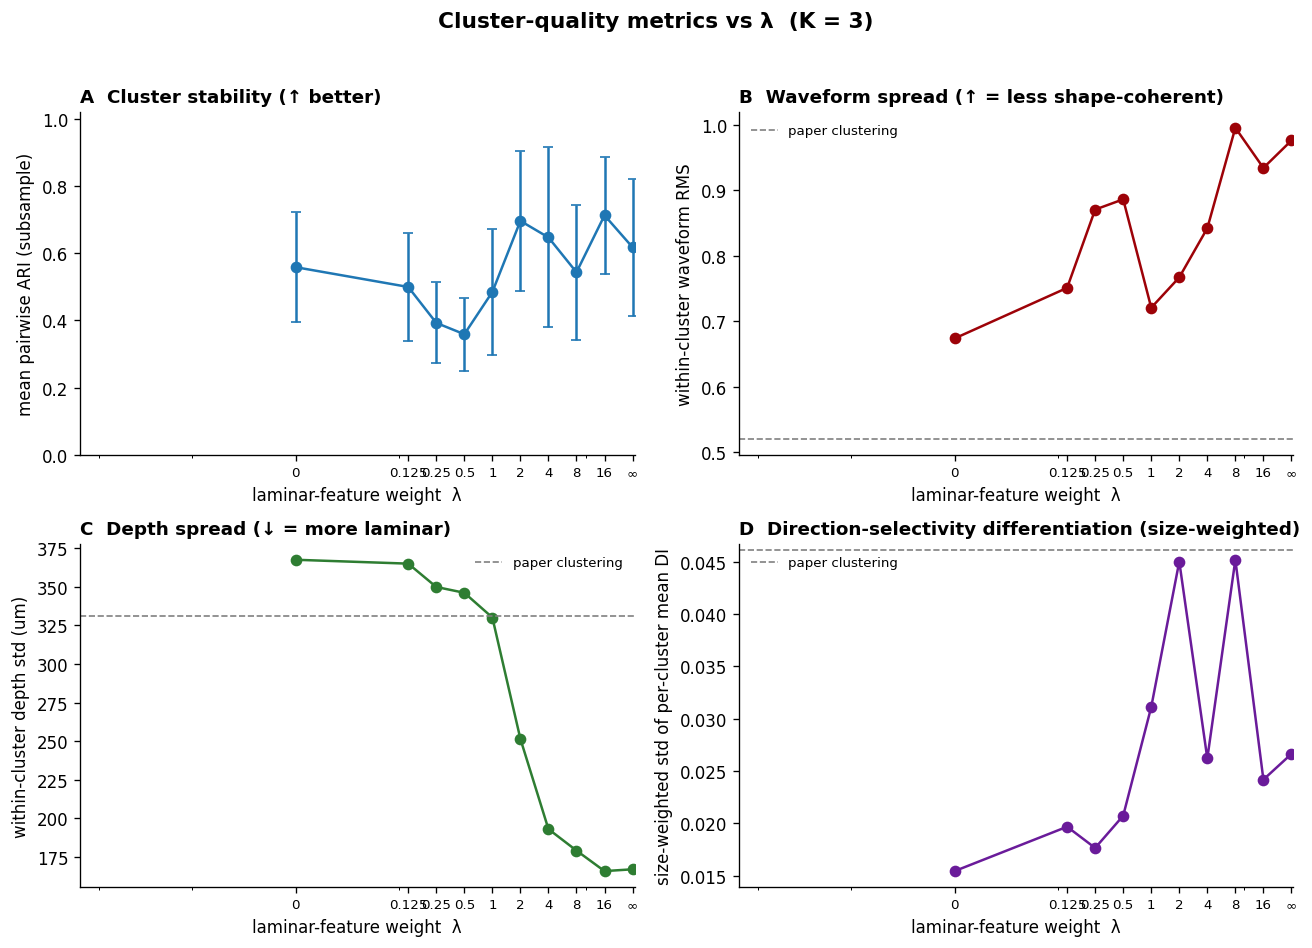
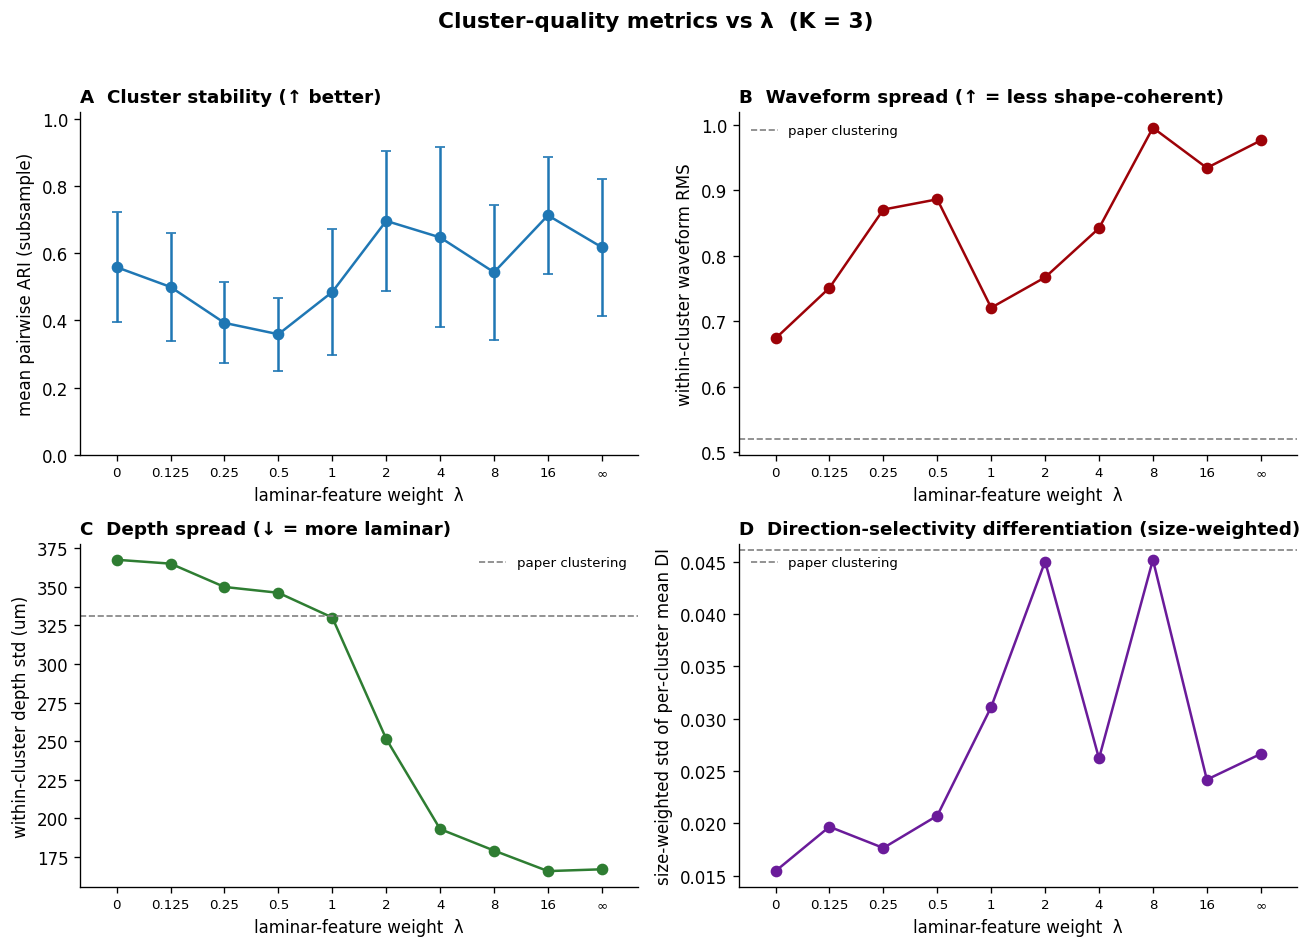
Clean up laminar_features: one seed, one lambda axis, no dead code
- Use common.RAND_STATE everywhere (drop duplicate UMAP_SEED)
- Per-K metric plots use the same log lambda-axis as the overlay;
  regenerate output/metrics_K*.png from the cached metrics
- Remove unused LAYER_EDGES, PAPER_CATEGORY, obs_pub, louvain.modularity
- Drop unused seaborn dependency
- Fix stale metrics34 docstring (subsample stability, any K)
- functional_quality.py writes output/functional_quality.json;
  write_explainer.py reads it instead of a hand-copied z table

diff --git a/laminar_features/output/functional_differentiation.html b/laminar_features/output/functional_differentiation.html
@@ -123,8 +123,8 @@ label shuffles.</div>
   per variable.</li>
   <li><b>Null:</b> B = 300 label permutations preserving cluster sizes; the same
   permutation is applied to all variables within a draw.</li>
-  <li><b>Reported:</b> the z-score above, per (K, λ); plus per-variable η² for two
-  reference solutions (shape-only K=9 vs position-only K=9).</li>
+  <li><b>Reported:</b> the z-score above, per (K, λ); plus per-variable η² for three
+  K=9 reference solutions (shape-only λ=0, the peak λ=4, position-only λ=∞).</li>
 </ul>
 
 <h2>5. How this relates to the paper</h2>
@@ -158,8 +158,8 @@ is the per-variable breakdown of the aggregate z on the left.</figcaption></figu
 
 <p>z-score by cluster count K (rows) and laminar weight λ (columns); the largest value
 in each row is highlighted:</p>
-<table class="z"><tr><th>K \ λ</th><th>0</th><th>0.125</th><th>0.25</th><th>0.5</th><th>1</th><th>2</th><th>4</th><th>8</th><th>16</th><th>∞</th></tr><tr><th>3</th><td>10.7</td><td>13.8</td><td>15.6</td><td>17.5</td><td>12.7</td><td class="hi">20.3</td><td>18.8</td><td>19.6</td><td>13.8</td><td>15.6</td></tr><tr><th>5</th><td>10.7</td><td>11.4</td><td>13.0</td><td>13.6</td><td>25.3</td><td>25.3</td><td class="hi">26.9</td><td>19.7</td><td>25.3</td><td>19.6</td></tr><tr><th>7</th><td>11.8</td><td>10.8</td><td>11.0</td><td>14.4</td><td>23.2</td><td class="hi">23.7</td><td>20.5</td><td>18.1</td><td>21.8</td><td>19.6</td></tr><tr><th>9</th><td>11.6</td><td>11.4</td><td>9.6</td><td>11.3</td><td>21.3</td><td>21.8</td><td class="hi">24.4</td><td>17.5</td><td>21.2</td><td>18.0</td></tr></table>
-<p class="small">Published K=9 labels (clustered on all 801 units): z = 10.8.</p>
+<table class="z"><tr><th>K \ λ</th><th>0</th><th>0.125</th><th>0.25</th><th>0.5</th><th>1</th><th>2</th><th>4</th><th>8</th><th>16</th><th>∞</th></tr><tr><th>3</th><td>10.6</td><td>13.8</td><td>15.6</td><td>17.5</td><td>12.7</td><td class="hi">20.3</td><td>18.8</td><td>19.6</td><td>13.8</td><td>15.6</td></tr><tr><th>5</th><td>10.7</td><td>11.4</td><td>13.0</td><td>13.6</td><td>25.3</td><td>25.3</td><td class="hi">26.9</td><td>19.7</td><td>25.3</td><td>19.6</td></tr><tr><th>7</th><td>11.8</td><td>10.8</td><td>11.0</td><td>14.4</td><td>23.2</td><td class="hi">23.7</td><td>20.5</td><td>18.1</td><td>21.8</td><td>19.6</td></tr><tr><th>9</th><td>11.6</td><td>11.4</td><td>9.6</td><td>11.3</td><td>21.3</td><td>21.8</td><td class="hi">24.4</td><td>17.5</td><td>21.2</td><td>18.0</td></tr></table>
+<p class="small">Published K=9 labels (clustered on all 801 units): z = 10.7.</p>
 
 <p><b>Reading it:</b></p>
 <ul>

diff --git a/laminar_features/write_explainer.py b/laminar_features/write_explainer.py
@@ -1,7 +1,9 @@
 """Generate a standalone explainer HTML for the held-out functional-differentiation
 metric: reasoning + math + relation to the paper + results. Self-contained (the
-figure is base64-embedded). Run: uv run python write_explainer.py"""
+figure is base64-embedded). Reads output/functional_quality.json, so run
+functional_quality.py first. Run: uv run python write_explainer.py"""
 import os
+import json
 import base64
 
 OUT = os.path.join(os.path.dirname(os.path.abspath(__file__)), "output")
@@ -9,17 +11,18 @@ IMG = os.path.join(OUT, "functional_quality.png")
 IMG2 = os.path.join(OUT, "functional_per_variable.png")
 
 # functional-differentiation z-scores from functional_quality.py
-LAM = ["0", "0.125", "0.25", "0.5", "1", "2", "4", "8", "16", "∞"]
-Z = {
-    3: [10.65, 13.82, 15.60, 17.46, 12.69, 20.31, 18.82, 19.55, 13.79, 15.63],
-    5: [10.74, 11.37, 13.04, 13.57, 25.34, 25.27, 26.90, 19.69, 25.32, 19.64],
-    7: [11.85, 10.80, 11.04, 14.44, 23.20, 23.67, 20.48, 18.14, 21.76, 19.55],
-    9: [11.63, 11.45, 9.62, 11.26, 21.31, 21.80, 24.43, 17.51, 21.24, 17.97],
-}
-Z_PUBLISHED = 10.75
+ZJSON = os.path.join(OUT, "functional_quality.json")   # written by functional_quality.py
 
 
-def table_html():
+def load_z():
+    """(lambda column labels, {K: [z per lambda]}, published-labels z)."""
+    with open(ZJSON) as f:
+        d = json.load(f)
+    lam = ["∞" if w == "inf" else f"{w:g}" for w in d["weights"]]
+    return lam, {int(K): v for K, v in d["z_by_K"].items()}, d["z_published"]
+
+
+def table_html(LAM, Z):
     head = "<tr><th>K \\ λ</th>" + "".join(f"<th>{l}</th>" for l in LAM) + "</tr>"
     rows = []
     for K, vals in Z.items():
@@ -161,8 +164,8 @@ label shuffles.</div>
   per variable.</li>
   <li><b>Null:</b> B = 300 label permutations preserving cluster sizes; the same
   permutation is applied to all variables within a draw.</li>
-  <li><b>Reported:</b> the z-score above, per (K, λ); plus per-variable η² for two
-  reference solutions (shape-only K=9 vs position-only K=9).</li>
+  <li><b>Reported:</b> the z-score above, per (K, λ); plus per-variable η² for three
+  K=9 reference solutions (shape-only λ=0, the peak λ=4, position-only λ=∞).</li>
 </ul>
 
 <h2>5. How this relates to the paper</h2>
@@ -244,10 +247,11 @@ bioRxiv 2025.05.14.653875 / PNAS.</p>
 
 
 def main():
+    LAM, Z, Z_PUBLISHED = load_z()
     html = (TEMPLATE
             .replace("__IMG2__", img_uri(IMG2))   # before __IMG__ (substring)
             .replace("__IMG__", img_uri(IMG))
-            .replace("__TABLE__", table_html())
+            .replace("__TABLE__", table_html(LAM, Z))
             .replace("__ZPUB__", f"{Z_PUBLISHED:.1f}"))
     out = os.path.join(OUT, "functional_differentiation.html")
     with open(out, "w") as f:

diff --git a/laminar_features/metrics34.py b/laminar_features/metrics34.py
@@ -1,9 +1,10 @@
 """
 Cluster-quality metrics as a function of the laminar-feature weight lambda
-(the extension's free parameter).  All metrics use the K=9 forced clusterings.
+(the extension's free parameter), computed for each forced cluster count K.
 
-  - stability        : mean pairwise adjusted Rand index across UMAP re-seeds
-                       (how reproducible the 9-cluster solution is).
+  - stability        : mean pairwise adjusted Rand index across re-clusterings of
+                       random 85%-neuron subsamples (how reproducible the
+                       K-cluster solution is).
   - waveform spread  : within-cluster RMS distance to the cluster-mean waveform,
                        in the 52-d waveform space (shape coherence; lower = tighter).
   - depth spread     : mean within-cluster std of laminar depth (laminar coherence).
@@ -96,7 +97,7 @@ def di_differentiation(di, labels):
 def _log_positions(weights):
     """x positions for a log axis: λ=0 -> half the smallest positive weight
     (i.e. 0.0625 when the smallest is 0.125); λ=∞ -> twice the largest finite."""
-    finite_pos = [w for w in weights if np.isfinite(w) and w > 0]
+    finite_pos = [w for w in weights if np.isfinite(w) and w > 0] or [1.0]
     pseudo_zero = min(finite_pos) / 2.0
     inf_pos = max(finite_pos) * 2.0
 
@@ -181,20 +182,18 @@ def plot_metrics(weights, stab, stab_err, wspread, dspread, didiff,
     """paper_ref: optional dict with keys 'wspread','dspread','didiff' for the
     published-clustering reference lines."""
     fig, axes = plt.subplots(2, 2, figsize=(11, 8))
-    # map weights (which may include inf) to x positions on a symlog axis;
-    # inf (position-only) is placed just past the largest finite weight.
-    finite = [w for w in weights if np.isfinite(w)]
-    inf_x = max(finite) * 2 if finite else 1.0
-    x = np.array([w if np.isfinite(w) else inf_x for w in weights], float)
-    xtl = [("∞" if not np.isfinite(w) else f"{w:g}") for w in weights]
+    # same log λ-axis as plot_metrics_overlay (λ=0 and λ=∞ at fixed slots)
+    x, xtl, pz, infp = _log_positions(weights)
 
     def style(ax, ylabel, title):
         ax.set_xlabel("laminar-feature weight  λ", fontsize=10)
         ax.set_ylabel(ylabel, fontsize=10)
         ax.set_title(title, fontsize=11, fontweight="bold", loc="left")
-        ax.set_xscale("symlog", linthresh=0.1)
+        ax.set_xscale("log")
         ax.set_xticks(x)
         ax.set_xticklabels(xtl, fontsize=8)
+        ax.xaxis.set_minor_locator(plt.NullLocator())
+        ax.set_xlim(pz / 1.6, infp * 1.6)
         for sp in ("top", "right"):
             ax.spines[sp].set_visible(False)
 

diff --git a/laminar_features/louvain.py b/laminar_features/louvain.py
@@ -380,52 +380,3 @@ def best_partition(graph, resolution=1.):
     else:
         return partition
 
-
-def modularity(partition, graph, resolution=1.):
-    """
-    Compute the modularity of a node partition of a graph.
-
-    Parameters
-    ----------
-    partition: dict
-       The partition of the nodes.
-       The keys of the dictionary correspond to the nodes and the values to the communities.
-
-    graph: networkx.Graph, scipy.csr_matrix or np.ndarray
-        The graph or its adjacency matrix (sparse or dense).
-
-    resolution: double, optional, default: 1.0
-        The resolution parameter in the modularity function.
-        This parameter corresponds to the time introduced in
-        "Laplacian Dynamics and Multiscale Modular Structure in Networks",
-        R. Lambiotte, J.-C. Delvenne, M. Barahona
-
-    Returns
-    -------
-    modularity : float
-       The modularity.
-
-    References
-    ----------
-
-    - Finding and evaluating community structure in networks, 2004
-      Newman, M. E. and Girvan, M.
-      Physical review E, 69(2), 026113.
-
-    Notes
-    -----
-    Uses pure Python code to compute modularity.
-
-    """
-    if type(graph) == sparse.csr_matrix:
-        adj_matrix = graph
-    elif type(graph) == np.ndarray:
-        adj_matrix = sparse.csr_matrix(graph)
-    elif type(graph) == nx.classes.graph.Graph:
-        adj_matrix = nx.adj_matrix(graph)
-        partition = {i: partition[node] for (i, node) in enumerate(graph.nodes())}
-    else:
-        raise TypeError(
-            "The argument should be a NetworkX graph, a NumPy array or a SciPy Compressed Sparse Row matrix.")
-
-    return python_modularity(partition, adj_matrix, resolution)

diff --git a/laminar_features/functional_quality.py b/laminar_features/functional_quality.py
@@ -13,11 +13,12 @@ lambda), this can peak at the genuinely good solutions.
 Run:  uv run python functional_quality.py
 """
 import os
+import json
 import numpy as np
 
 import run_figures34 as R
 import metrics34 as M
-from common import seed_everything, run_umap, scan_resolutions, cluster_to_k, WEIGHTS, KS
+from common import seed_everything, run_umap, scan_resolutions, cluster_to_k, WEIGHTS, KS, RAND_STATE
 import matplotlib.pyplot as plt
 
 N_NULL = 300
@@ -79,8 +80,8 @@ def main():
     # full-data graphs only (cheap; no subsampling needed for this metric)
     graphs = {}
     for w in WEIGHTS:
-        seed_everything(R.UMAP_SEED)
-        _, g = run_umap(R.features(wf, pos, w), seed=R.UMAP_SEED)
+        seed_everything(RAND_STATE)
+        _, g = run_umap(R.features(wf, pos, w), seed=RAND_STATE)
         graphs[w] = (g, scan_resolutions(g))
         print(f"  graph ready λ={R.wtext(w)}")
 
@@ -98,8 +99,16 @@ def main():
 
     # paper published labels (K=9) as a reference z
     pub = df["cluster 1.0"].astype(int).values
-    z_pub, obs_pub = func_z(varmat, pub, rng)
+    z_pub, _ = func_z(varmat, pub, rng)
     print(f"  published K=9 labels: functional-z={z_pub:.2f}")
+
+    # z-scores for write_explainer.py
+    zjson = os.path.join(R.OUT, "functional_quality.json")
+    with open(zjson, "w") as f:
+        json.dump({"weights": [("inf" if not np.isfinite(w) else w) for w in WEIGHTS],
+                   "z_by_K": {str(K): [float(z) for z in Z[K]] for K in KS},
+                   "z_published": float(z_pub)}, f, indent=1)
+    print(f"saved {zjson}")
 
     # ---------- plot ----------
     X, xtl, pz, infp = M._log_positions(WEIGHTS)

diff --git a/laminar_features/run_figures34.py b/laminar_features/run_figures34.py
@@ -32,11 +32,10 @@ import matplotlib.pyplot as plt
 
 from common import (seed_everything, waveforms_by_key, run_umap, scan_resolutions,
                     cluster_to_k, classify_shape, CUSTOM_PAL, ORDER_PUB, NAMES_PUB,
-                    LAYER_TOP, LAYER_BOTTOM, WEIGHTS, KS)
+                    LAYER_TOP, LAYER_BOTTOM, WEIGHTS, KS, RAND_STATE)
 from fig34 import make_figure3, make_figure4
 import metrics34 as M
 
-UMAP_SEED = 50
 N_SUBSAMPLE = 8
 SUBSAMPLE_FRAC = 0.85
 
@@ -77,16 +76,16 @@ def features(wf, pos, weight):
 def build_graphs(feat):
     """UMAP fuzzy graph + resolution scan for the full data and for each
     subsample (computed ONCE per weight, reused across all K)."""
-    seed_everything(UMAP_SEED)
-    _, full = run_umap(feat, seed=UMAP_SEED)
+    seed_everything(RAND_STATE)
+    _, full = run_umap(feat, seed=RAND_STATE)
     full_scan = scan_resolutions(full)
     subs = []
     n = feat.shape[0]
     for r in range(N_SUBSAMPLE):
         rng = np.random.default_rng(1000 + r)
         idx = np.sort(rng.choice(n, size=int(SUBSAMPLE_FRAC * n), replace=False))
-        seed_everything(UMAP_SEED)
-        _, g = run_umap(feat[idx], seed=UMAP_SEED)
+        seed_everything(RAND_STATE)
+        _, g = run_umap(feat[idx], seed=RAND_STATE)
         subs.append((idx, g, scan_resolutions(g)))
     return full, full_scan, subs
 

diff --git a/laminar_features/common.py b/laminar_features/common.py
@@ -60,7 +60,6 @@ NAMES_PUB = {0: "NS1", 5: "NS2", 7: "NS3", 1: "NS4", 6: "TP-1",
 # Display order top -> bottom and the depth-axis boundaries (microns from L4).
 LAYER_BIN_NAMES = {4: "L2/3", 3: "L4A/B", 2: "L4C", 1: "L5/6"}
 LAYER_BIN_ORDER = [4, 3, 2, 1]                      # top -> bottom
-LAYER_EDGES = [1039.4, 588.8, 285.4, 0.0, -488.0, -990.0]  # L1 top .. L6 bottom
 LAYER_CENTERS = {  # for placing layer labels on a depth axis
     "L1": 814.1, "L2/3": 437.1, "L4A/B": 142.7, "L4C": -244.0, "L5/6": -739.0}
 
@@ -69,11 +68,6 @@ def waveforms_by_key():
     """Return a dict (session, unit_id) -> normalized waveform for all 801 units."""
     d = load_neg_waveforms()
     return {(s, i): w for s, i, w in zip(d["session"], d["unit_id"], d["waveforms"])}
-
-
-# Per-neuron cell-type category implied by the published cluster (for reference).
-PAPER_CATEGORY = {0: "NS", 1: "NS", 5: "NS", 7: "NS", 6: "TP",
-                  2: "BS", 3: "BS", 4: "BS", 8: "BS"}
 
 
 def classify_shape(mean_wave):

diff --git a/laminar_features/summary.py b/laminar_features/summary.py
@@ -20,7 +20,7 @@ import numpy as np
 import run_figures34 as R
 import metrics34 as M
 from common import (cluster_to_k, seed_everything, run_umap, scan_resolutions,
-                    WEIGHTS, KS)
+                    WEIGHTS, KS, RAND_STATE)
 
 CACHE = os.path.join(R.OUT, "metrics_data.json")
 N_SHUFFLE = 20
@@ -62,8 +62,8 @@ def random_baseline(df, wf, Ks):
     """Shuffle the lambda=0 labels (preserving cluster sizes) and recompute metrics."""
     depth = df["depth_scaled"].values
     DI = df["DI"].values
-    seed_everything(R.UMAP_SEED)                       # lambda=0 graph (waveform only)
-    _, full = run_umap(wf, seed=R.UMAP_SEED)
+    seed_everything(RAND_STATE)                        # lambda=0 graph (waveform only)
+    _, full = run_umap(wf, seed=RAND_STATE)
     scan = scan_resolutions(full)
     base = {}
     for K in Ks:
